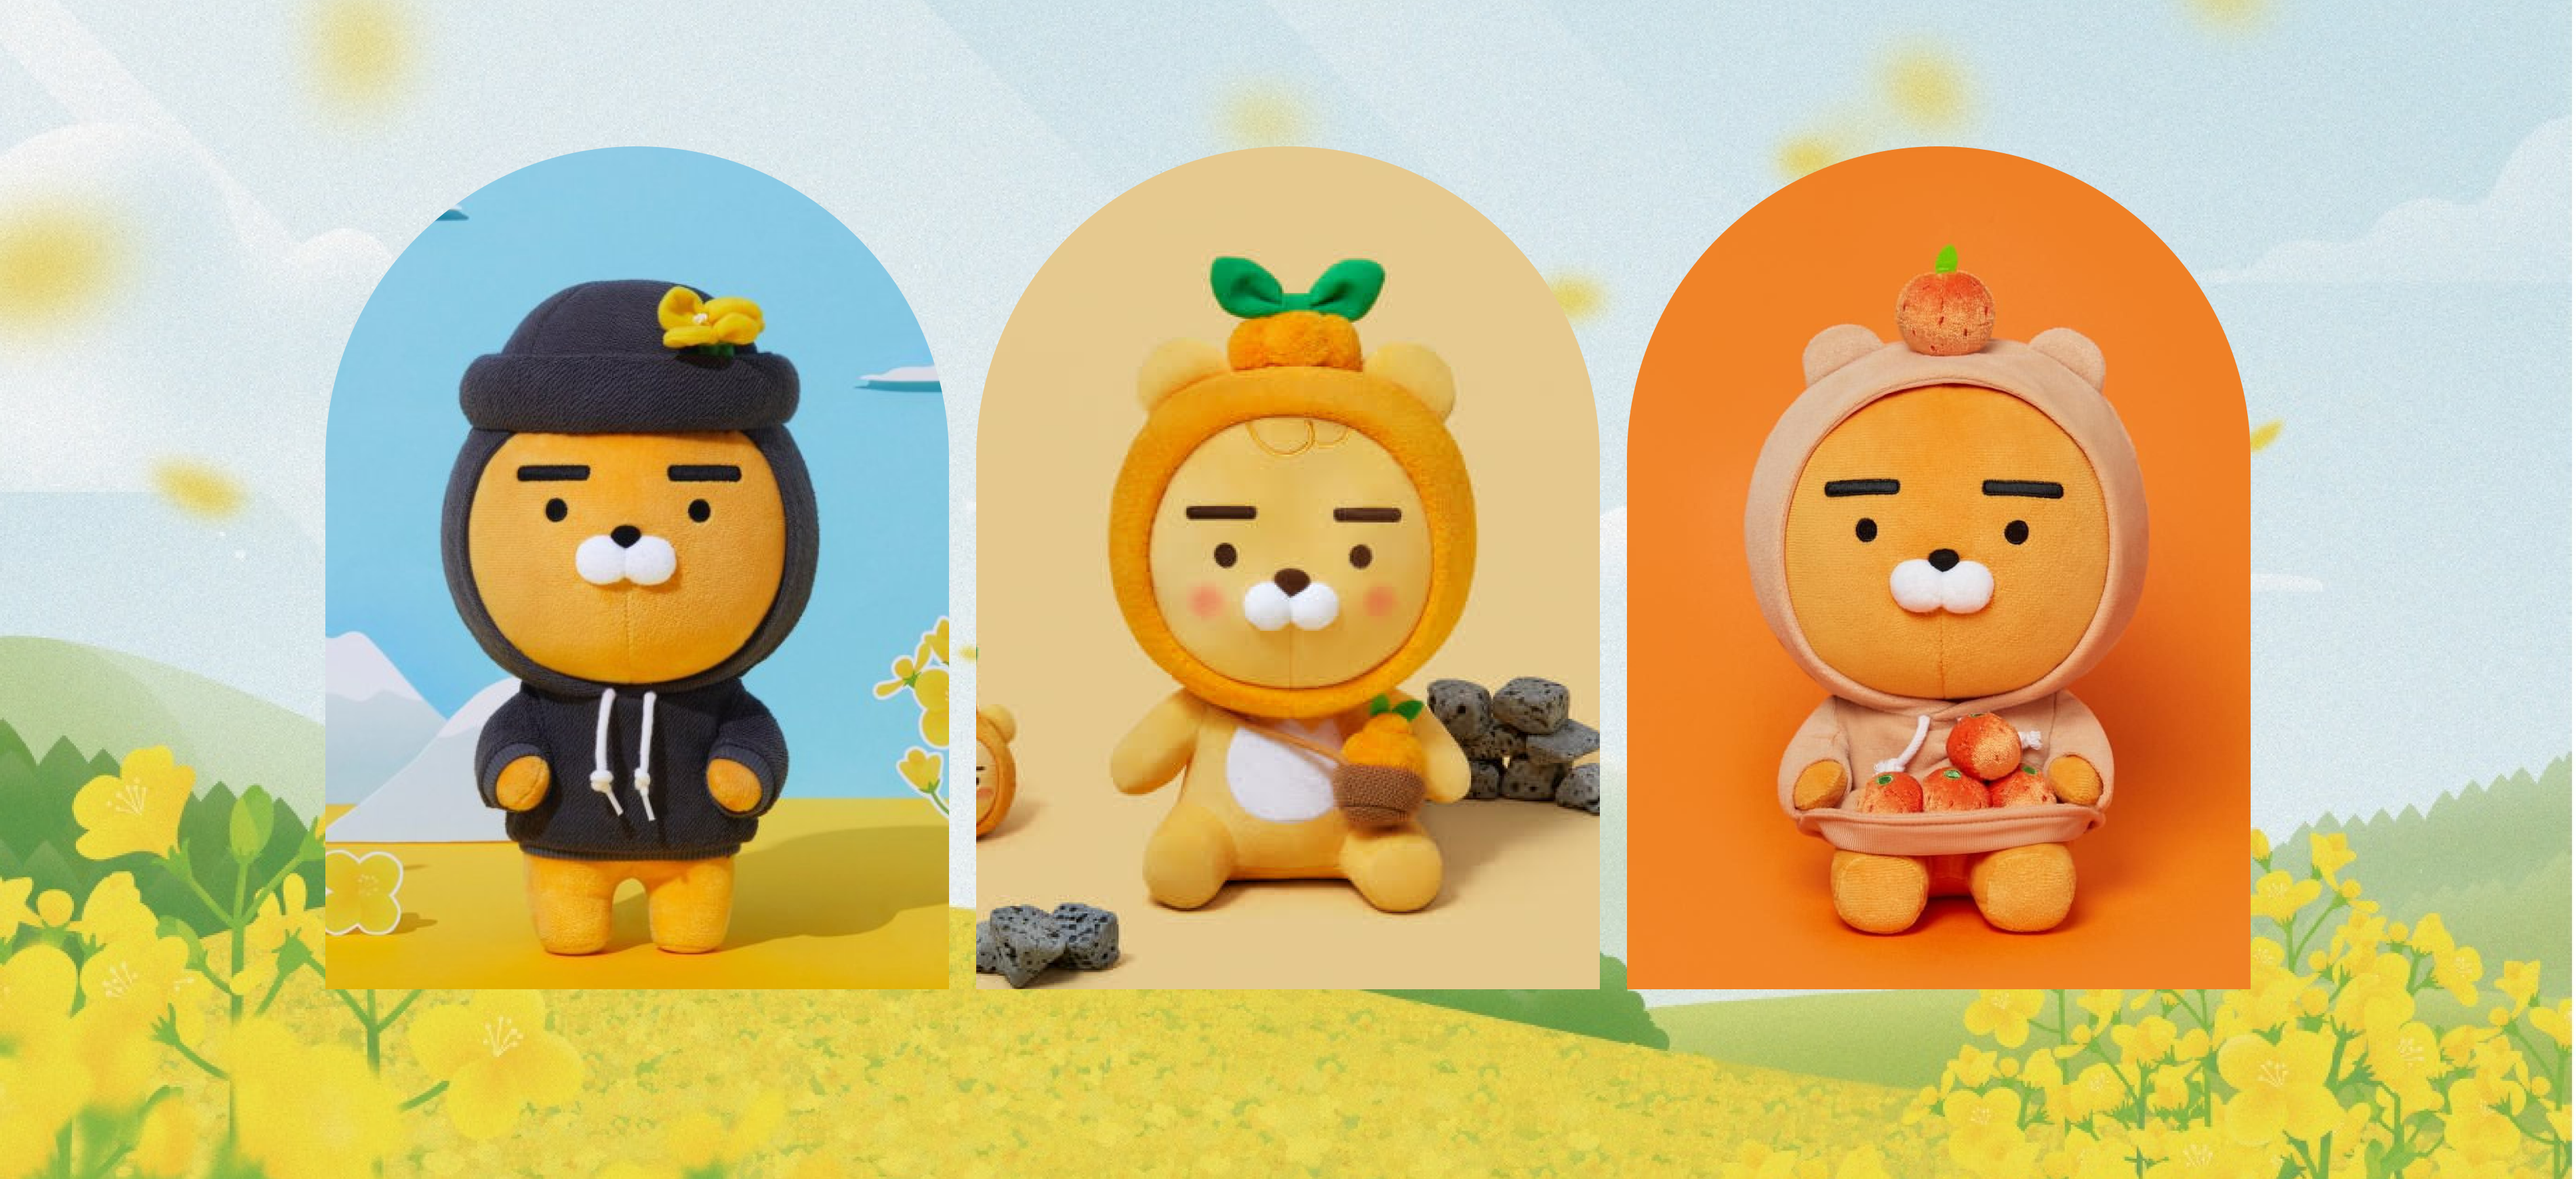
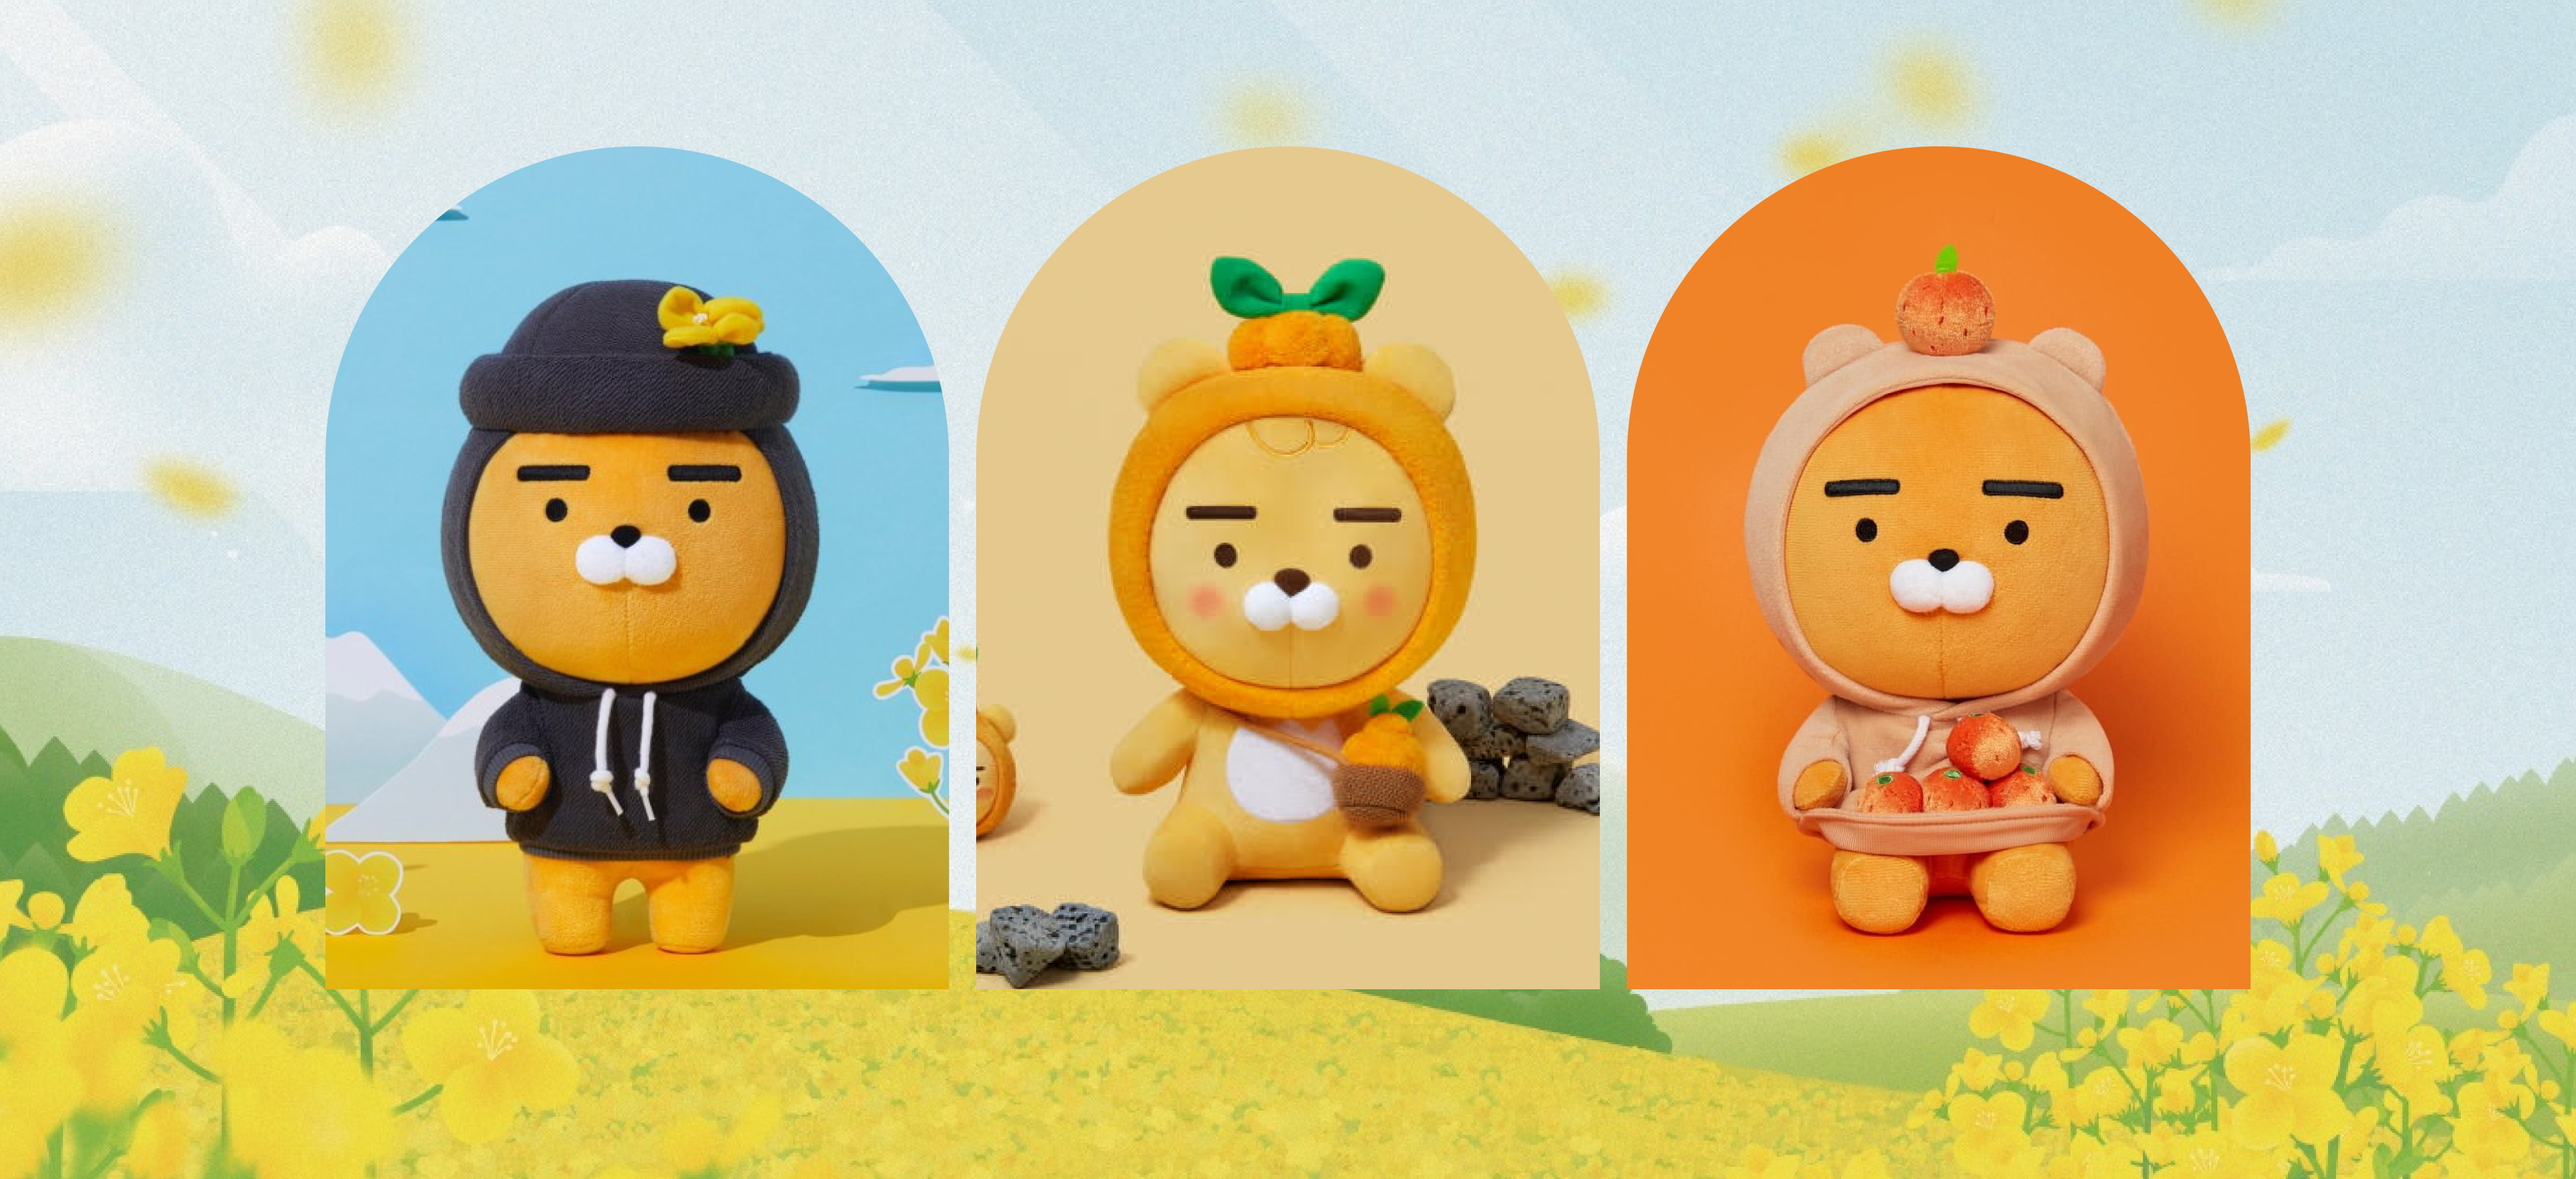
0803

diff --git a/05kakaofriends/css/main.css b/05kakaofriends/css/main.css
@@ -1,10 +1,5 @@
-@import url('https://fonts.googleapis.com/css2?family=Fredoka+One&display=swap'); 
-@font-face {
-    font-family: 'Cafe24Ssurround';
-    src: url('https://cdn.jsdelivr.net/gh/projectnoonnu/noonfonts_2105_2@1.0/Cafe24Ssurround.woff') format('woff');
-    font-weight: normal;
-    font-style: normal;
-}
+@import url('https://fonts.googleapis.com/css2?family=Fredoka+One&display=swap');@font-face { font-family: 'Cafe24Ssurround'; src: url('https://cdn.jsdelivr.net/gh/projectnoonnu/noonfonts_2105_2@1.0/Cafe24Ssurround.woff') format('woff'); font-weight: normal; font-style: normal; } 
+@font-face { font-family: 'SUIT'; src: url('https://cdn.jsdelivr.net/gh/projectnoonnu/noonfonts_suit@1.0/SUIT-Regular.woff2') format('woff2'); } 
 
 
 
@@ -16,24 +11,46 @@
 .topbanner { padding: 40px 0; background: url(../img/topbanner.png)no-repeat center center/cover; } 
 .topbanner .container { justify-content: space-between; } 
 .topbanner h2 { font-family: 'Cafe24Ssurround'; font-size: 35px; color: white; } 
-.topbanner i {font-size: 30px; cursor: pointer; } 
+.topbanner i { font-size: 30px; cursor: pointer; } 
 
 
 /* header - nav */
 .header { line-height: 100px; } 
 .header a { display: block; } 
-.header .container {  justify-content: space-between; } 
+.header .container { justify-content: space-between; } 
 .header .container>ul { display: flex; } 
 .header .container .gnb { gap: 30px; width: 400px; font-weight: 15px; } 
 .header h1 { width: 250px; } 
-.header .container .icon {gap: 20px; width: 400px; font-size: 20px; justify-content: flex-end;} 
+.header .container .icon { gap: 20px; width: 400px; font-size: 20px; justify-content: flex-end; } 
 
 
-/* main_visual */
+/* section main_visual */
 .main_visual .main_slider .mv01 { background: url(../img/mv001.png)no-repeat center center/cover; } 
 .main_visual .main_slider .mv02 { background: url(../img/mv002.png)no-repeat center center/cover; } 
 .main_visual .main_slider .mv03 { background: url(../img/mv003.png)no-repeat center center/cover; } 
-.main_visual .main_slider figure {height: 870px;} 
-.main_visual .main_slider .container { gap: 20px; overflow: hidden; } 
-.main_visual .main_slider .container img {width: 33.33%;} 
+.main_visual .main_slider figure { position: relative; height: 870px; } 
 
+.slick-dots{position: absolute; inset: 50% auto auto 50%; transform: translate(-50%, 360px);}
+.slick-dots li {display: inline-block; margin: 0 7px;}
+.slick-dots li button {border: none; font-size: 0; background: white; 
+    width: 10px; height: 10px; padding: 0; border-radius: 50%;}
+.slick-dots li.slick-active button {
+    background: transparent;
+    border: 1px solid white;
+}
+
+/* section kakao */
+.kakao { padding: 100px 0; background: url(../img/friends.png)no-repeat center center/cover; } 
+.kakao h2 { font-size: 30px; font-family: 'Cafe24Ssurround'; line-height: 1.3; color: #181818; } 
+.kakao h2::after { content: ""; display: block; width: 30px; height: 1px; background: #555; margin:30px 0; } 
+.kakao p { font-size: 15px; font-family: 'SUIT'; font-weight: 500; line-height: 1.4; margin: 0 0 60px 0; color: #333;} 
+.kakao a { font-size: 15px; font-family: 'SUIT'; color: #333; font-weight: 600; display: inline-block; border: 1px solid #333; padding: 5px 20px; border-radius: 20px;} 
+
+/* section friend */
+.friend{padding: 100px 0;}
+.friend .container {flex-direction: column;}
+.friend .container h2{font-size: 30px; font-family: 'Fredoka One', cursive; line-height: 1.3; color: #181818; margin: 0 0 20px 0;}
+.friend .container p{font-size: 15px; font-family: 'SUIT'; font-weight: 500; line-height: 1.4; margin: 0 0 60px 0; color: #333;}
+
+
+.friend .container .itm img {position: absolute;}

diff --git a/05kakaofriends/index.html b/05kakaofriends/index.html
@@ -56,9 +56,86 @@
                     animate__slow 1s
                     animate__infinite infinite" -->
                 </div>
+            </section>
+
+            <section class="kakao">
+                <div class="container">
+                    <figure>
+                        <h2>일상의 즐거움,<br />
+                            카카오프렌즈</h2>
+                        <p>카카오톡 이모티콘으로 등장, 전국민의 감정을 대변하며<br />
+                            성장한 ‘카카오프렌즈’는
+                            스토리에 기반한 다양한 콘텐츠와<br />
+                            상품을 선보이며
+                            글로벌 캐릭터로 나아가고 있습니다.</p>
+                        <a href="">kakao</a>
+                    </figure>
+                </div>
+            </section>
+
+
+            <section class="friend">
+                <div class="container">
+                    <h2>We are Friends</h2>
+                    <p>저마다의 개성과 인간적인 매력을<br />
+                        지닌 친구들 카카오프렌즈</p>
+                    <div class="friends_slide">
+                        <div class="itm itm01">
+                            <h3>라이언</h3>
+                            <p>머나먼 둥둥섬을 떠나 자유를 찾아온 왕자.<br />
+                                나는 갈기 없는 숫사자 컴플렉스야 (쉿)</p>
+                            <img src="./img/cha01.png" alt="">
+                        </div>
+                        <div class="itm itm02">
+                            <h3>어피치</h3>
+                            <p>카카오프렌즈 최고 잔망꾸러기 복숭아🍑<br />
+                                피치 못할 매력에 빠져봐!</p>
+                            <img src="./img/cha02.png" alt="">
+                        </div>
+                        <div class="itm itm03">
+                            <h3>춘식이</h3>
+                            <p>안냥. 나는 라이언과 동거중인 춘식이냥.<br />
+                                고구마 너무 좋아 🍠</p>
+                            <img src="./img/cha03.png" alt="">
+                        </div>
+                        <div class="itm itm04">
+                            <h3>네오</h3>
+                            <p>카카오프렌즈 최고의 패셔니스타.<br />
+                                도도한 고양이 네오의 하루가 궁금하니?</p>
+                            <img src="./img/cha04.png" alt="">
+                        </div>
+                        <div class="itm itm05">
+                            <h3>프로도</h3>
+                            <p>네오의 영원한 단짝.<br />
+                                부잣집 도시개 프로도를 알고싶다면?</p>
+                            <img src="./img/cha05.png" alt="">
+                        </div>
+                        <div class="itm itm06">
+                            <h3>무지</h3>
+                            <p>무지무지 귀여운 토끼옷을 입은<br />
+                                단무지의 하루를 보여줄게 🐰 </p>
+                            <img src="./img/cha06.png" alt="">
+                        </div>
+                    </div>
+                </div>
+            </section>
+
+
+
+
+
+
+
+
+
+
+
+
+
+
 
     </div>
-    </section>
+
 
     </main>
 

diff --git a/05kakaofriends/js/main.js b/05kakaofriends/js/main.js
@@ -6,10 +6,19 @@ $(function () {
     $('.main_slider').slick({
         arrows: false,
         autoplay: true,
-        dots: false,
+        dots: true,
         pauseOnHover: false,
         pauseOnFocus: false,
         fade: true,
+    });
+
+    $('.friends_slide').slick({
+        arrows: false,
+        autoplay: true,
+        dots: false,
+        pauseOnHover: false,
+        pauseOnFocus: false,
+        slidesToShow: 4,
     });
 
 
